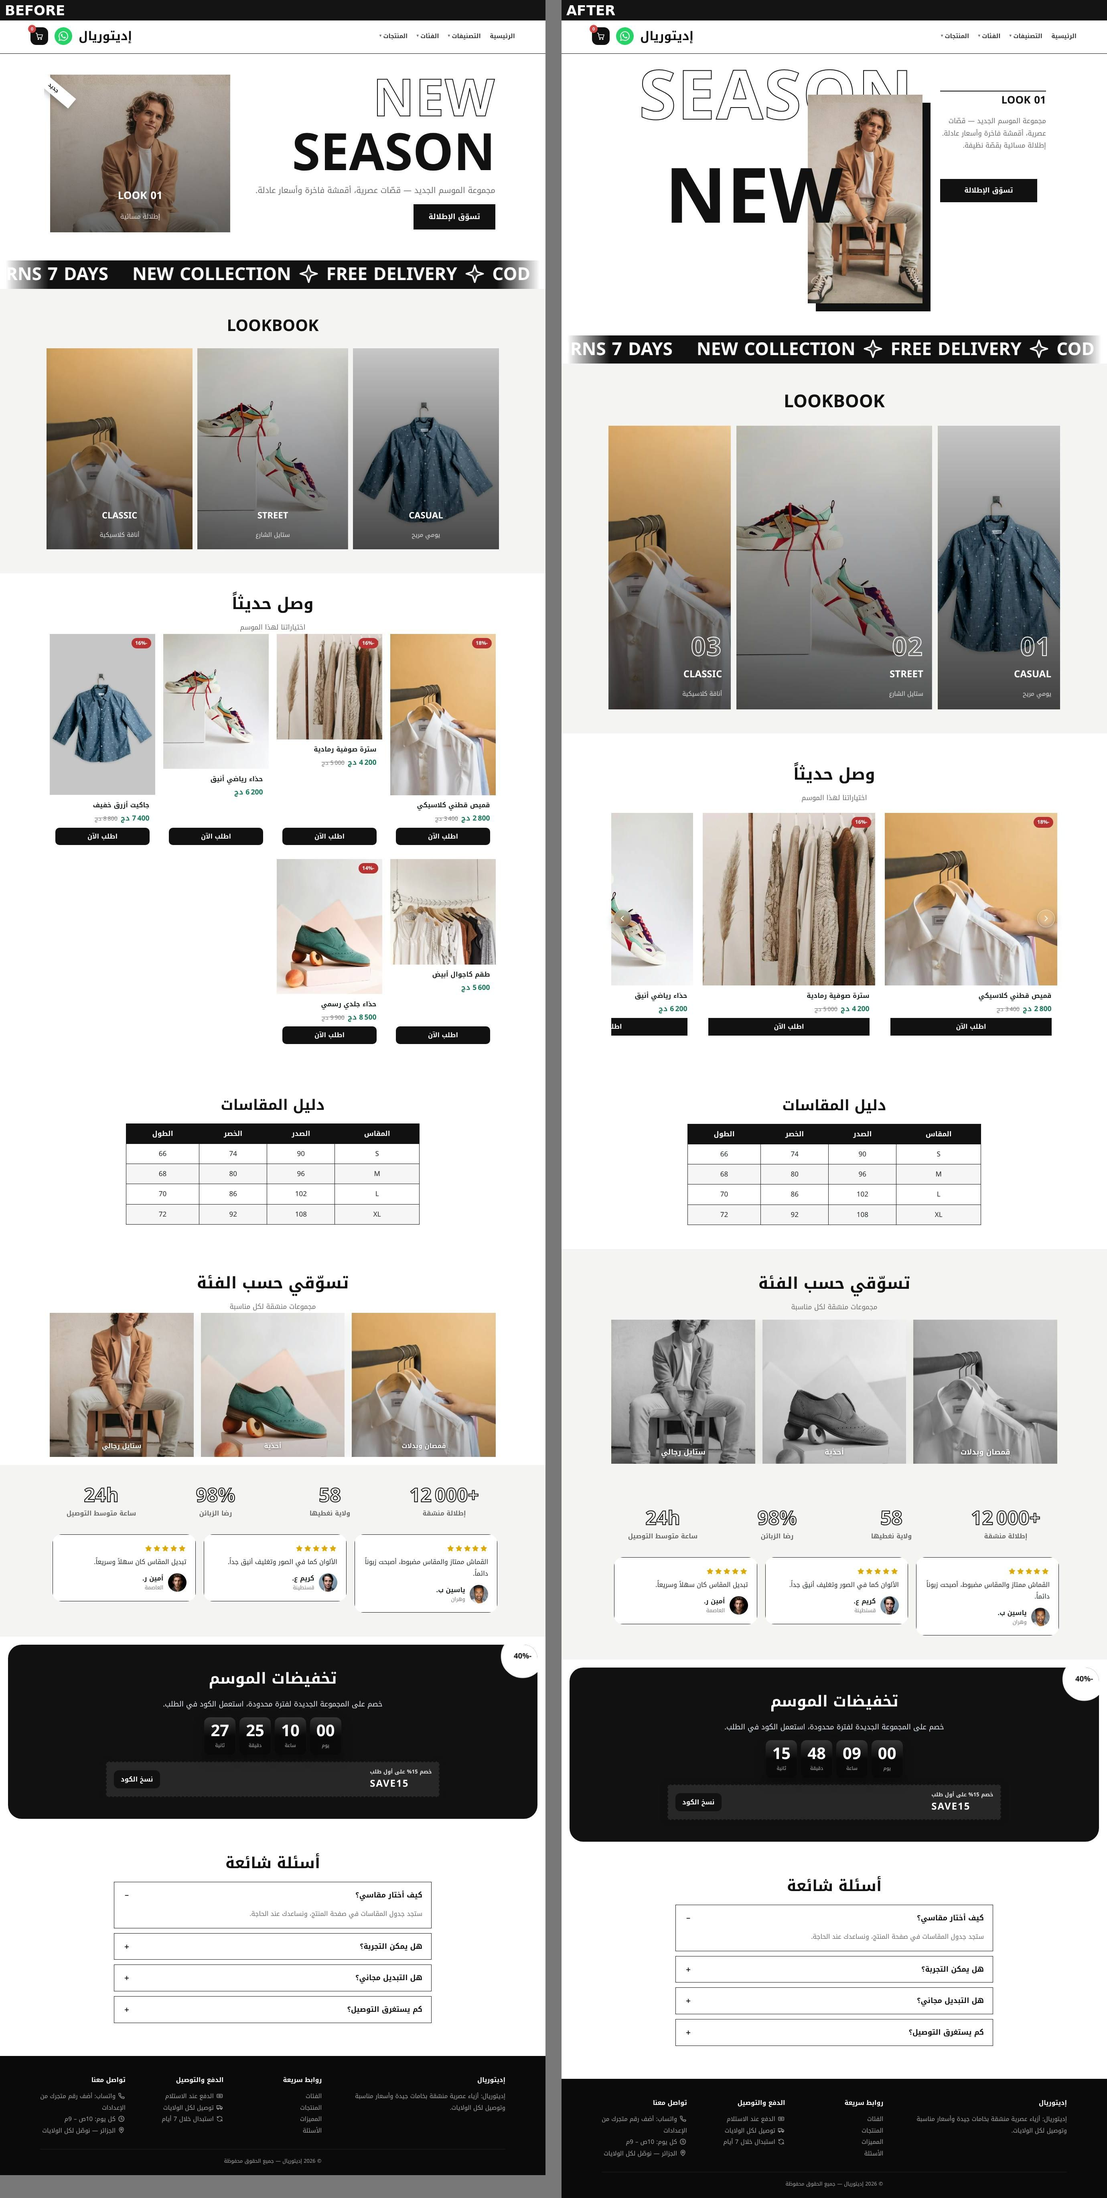
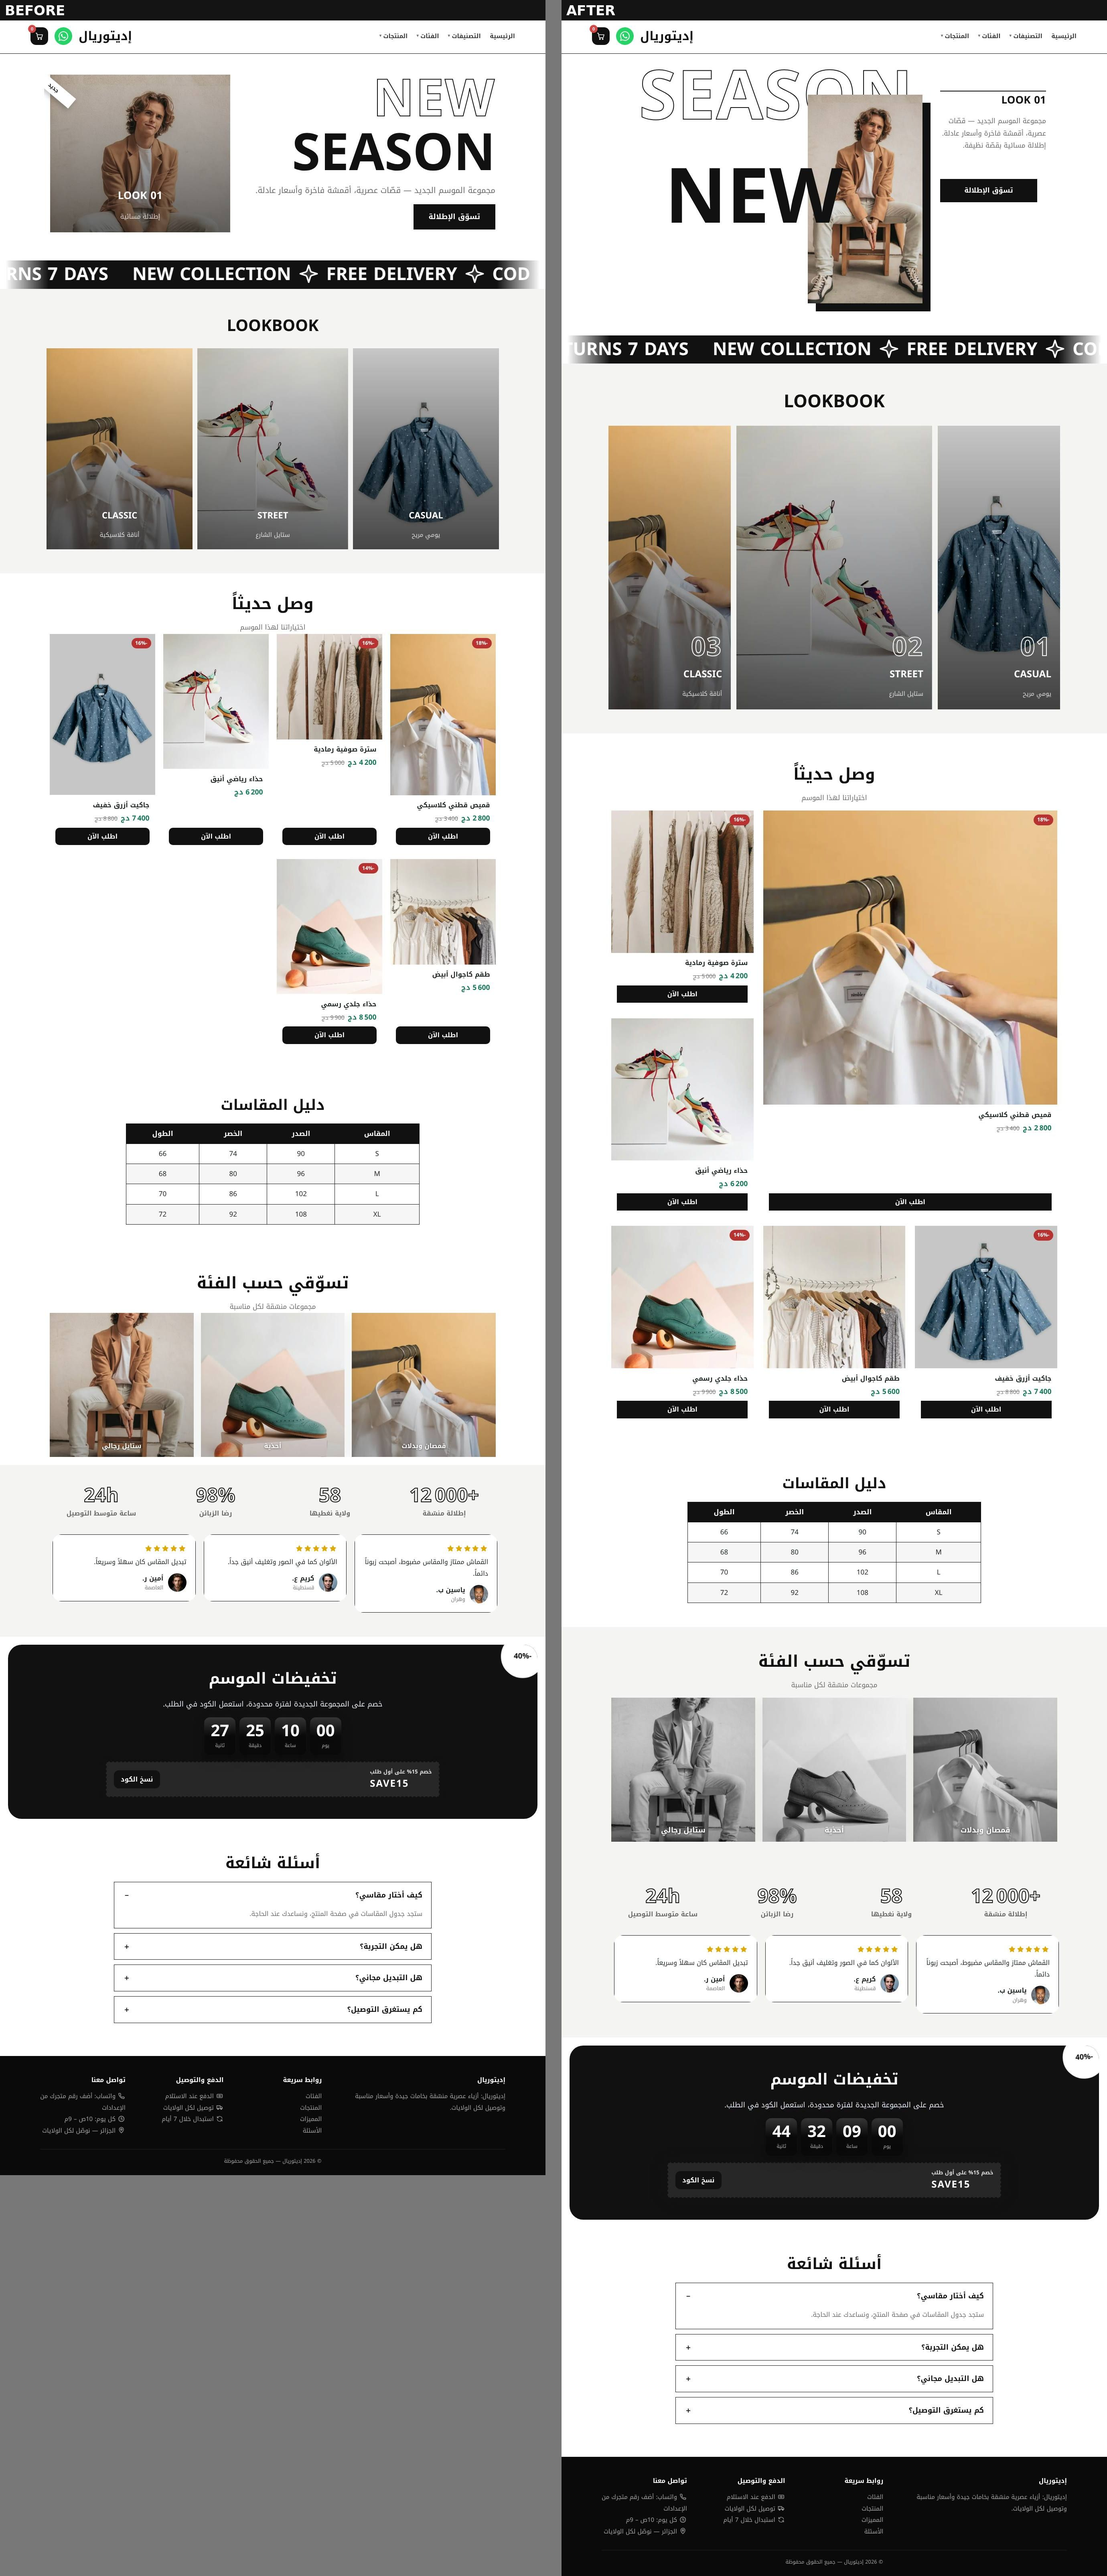
docs+thumbs (الدفعة 1): لقطات قبل/بعد/تابلت، اختبار استبدال الصور، تدقيق الأصول، تقرير الدفعة، فسيفساء s-fashion
Claude-Session: https://claude.ai/code/session_0141cZSU8KsZF3m8G44FMnJF

diff --git a/docs/batches/batch1/README.md b/docs/batches/batch1/README.md
@@ -1,0 +1,48 @@
+# الدفعة 1 — خمسة قوالب مجال: s-jewelry · s-cosmetics · s-honey · s-herbs · s-fashion
+
+الفرع `feature/alyssum-theme-studio` (لا دمج في `main`؛ لا `s-alyssum`؛ لا قوالب أخرى). المرجع في الجودة: s-watches وs-tech (مراجع لا تخطيطات للنسخ).
+المولّد: `scripts/gen-templates-batch1.py` (مولّد معرّفات معزول لكل قالب). الصور: كل صور الأصل ومراجعها محفوظة ولا صور مضافة (`IMAGE-AUDIT.md`).
+
+## ما يميّز كل قالب (هيرو · عرض منتجات · سرد) — لا ثلاثية تتكرر بين القوالب السبعة المحدَّثة
+
+| القالب | الهوية | الهيرو | عرض المنتجات | السرد |
+|---|---|---|---|---|
+| **s-jewelry** لؤلؤة | شامبانيا وذهب وردي، Amiri، دوائر وأقواس وبريق | **كولاج دوائر** (عناصر حرة): الخاتم كبيراً مع دائرتي القلادة والسوار الأصلية بإطارات وردية وحبّات تصنيف | **منتج مُبرَز + شبكة**: قطعة كبيرة بإطار مزاح بجوار شبكة من خمس | فئات بأقواس، قسم هدايا بإطار ذهبي مزدوج على صورة اللؤلؤ، ميداليات العيار |
+| **s-cosmetics** روز كريستال | وردي/بنفسجي زجاجي، Almarai | **صورة كاملة** بخلفية القسم + بطاقة نص زجاجية وبطاقتا ميزة عائمتان | **شبكة متدرّجة** (العمود الأوسط أخفض) بحدود وردية | روتين من 3 خطوات بدوائر مرقّمة وخط متقطع، فئات متدرّجة، لوح مكوّنات زجاجي |
+| **s-honey** ذهب الخلية | عسلي دافئ وسداسيات | **صورة داخل سداسي** كبير تحيط به شارات سداسية (عناصر حرة) فوق خلية نحل | **رفوف عسل**: بطاقات بحافة عسلية سميكة كرفّ | مسار متعرّج «من الخلية إلى بيتك» بأربع محطات، فئات بأقراص سداسية |
+| **s-herbs** العطّار | ورق عتيق وأخضر زيتوني، Amiri | **لوحة نباتية** بإطار مزدوج وتسمية بين عمود نص وعمود شارات بخط مزدوج | **قوائم أفقية مرقّمة** بالأرقام الهندية (صورة بجنب النص) | بطاقات وصفات بأيقونة جانبية، فئات بإطار صيدلية، دليل استعمال |
+| **s-fashion** إديتوريال | أبيض/أسود تحريري، Noto Kufi | **بوستر طباعي** (عناصر حرة): SEASON مفرّغة خلف الصورة بكتلة سوداء مزاحة وNEW عملاقة متداخلة | **فسيفساء** بمنتج مُبرَز 2×2 وخمسة صغيرة | لوك بوك غير متماثل مرقّم (28/44/28)، شريط نصي ضخم، دليل مقاسات، فئات بالأبيض والأسود تتلوّن بالمرور |
+| (مرجع) s-watches | ذهبي فاخر | قوس + مواصفات بخطوط وصل | سلايدر | فصول نصية تحريرية |
+| (مرجع) s-tech | فاتح عملي | هيرو مقسوم | شبكة + مقارنة | بطاقات مقارنة |
+
+التفاعل: رفع/تقريب/تلوين بالمرور على البطاقات والحبّات والبلاطات، أنيميشن دخول (`fadeUp/zoomIn/slide`)، طفو للدوائر والسداسيات، نبض للنقاط، شريط نصي متحرك.
+
+## التغييرات في قصّ/إطار الصور (دون تغيير الملفات)
+| القالب | الصورة | الأصل | الآن | ملاحظة |
+|---|---|---|---|---|
+| s-jewelry | `jewel_ring/moon/gold` | خلفية أعمدة (cover) | دوائر (cover، نقطة تركيز قابلة للضبط) | الأصل نفسه قصّ cover |
+| s-cosmetics | `cosm_terra` | عمود بشكل عضوي (cover) | خلفية قسم كاملة (cover) | — |
+| s-honey | `honey_amber` + بلاطات | عمود عضوي / بلاطات 1:1 | سداسي (قناع) / بلاطات 1:1 بقناع سداسي | القناع تأطير، والنقطة قابلة للضبط |
+| s-herbs | `herb_jars` | عمود خلفية (cover) | صورة **بنسبتها الطبيعية** 800/1200 بلا قص | تحسين |
+| s-fashion | `fashion_man` | عمود خلفية (cover) | صورة **بنسبتها الطبيعية** 0.67 بلا قص | تحسين |
+| الجميع | صور المنتجات | 1:1 | 1:1 (وسيط «نسبة صورة البطاقة» قابل للتعديل) | كالأصل |
+
+## الاختبارات (بوابة الدفعة)
+| البوابة | الأداة | النتيجة |
+|---|---|---|
+| تدقيق الأصول والمراجع | `tests/batch-image-audit.py c83b917 …` | **42/42** ✓ (كل صورة أصلية مستعملة، لا تكرار فوق الأصل، لا صور خارج الأصل، المنتجات والفئات محفوظة، ملفات متطابقة بايتاً) |
+| استبدال عبر **مكتبة الوسائط الحقيقية** | `tests/pilot-library-replace.js` (`LIB_TPLS`) | **47/47** ✓ (الصورة تتبدّل وتُرسم، إطارها بلا تغيّر، خلفيات الأقسام تحفظ خصائصها وارتفاعها، Ctrl+Z يعيد) |
+| استقلال التحرير | `tests/pilot-editability.js` (`PILOT_TPLS`) | **41/41** ✓ (كل عناصر القالب تُحدَّد بالفأرة: 47 و50 و45 و42 و45؛ كل العناصر الحرة تُسحب وحدها وتُستعاد؛ تحجيم/تدوير/تكرار/إخفاء/قفل للبطل الحرّ) |
+| بطارية القبول الكاملة (تثبيت، تحرير، **حفظ وإعادة فتح**، نشر، **أنيميشن/تحويم/سعر/رابط منتج**، عدّاد وكوبون، **طلب حقيقي**، سطح مكتب وجوال) | `tests/free-elements-qa.js` (`EQA_TPLS`) | **196/196** ✓، 0 أخطاء JS |
+| صمود الإطارات (استبدال كل الصور بأبعاد مختلفة بتوزيعين) | عرض + مقارنة ارتفاع الصفحة | ارتفاع **متطابق** للقوالب الخمسة (سطح مكتب/جوال: jewelry 5567/6626، cosmetics 5703/8515، honey 5218/7403، herbs 4994/6603، fashion 6420/8027)، بلا تعدٍّ أفقي |
+| التجاوب | 1360 / 820 / 390 | `overflow=0` في الكل |
+| مكتبة القوالب | `scripts/test-templates.js` | ✓ |
+
+## ما لم يُجرَّب
+- التثبيت على متجر حقيقي بمنتجات صاحبه (لتبويبات «حسب الفئة» مفاتيح `cat` في المنتجات).
+- أجهزة لمس حقيقية، ومتصفحات غير Chromium.
+- معاينات القوالب المصغّرة قد تبقى قديمة في كاش المتصفح (لم يُرفع `V` في `admin-nav.js` لأنه ملف مشترك).
+- الاختبارات الجديدة والبطارية خارج CI (تحتاج متجر PHP مثبَّتاً).
+
+## الملفات
+`<القالب>/`: `before-*`/`after-*` (1360/820/390)، `compare-hero-desktop.jpg`، `compare-desktop-fullpage.jpg`، `compare-mobile-top.jpg`، `compare-mobile-fullpage.jpg`، `tablet-top.jpg`، `image-swap-test.jpg`. و`overview-heroes.jpg` (الهيروات الخمسة). 
